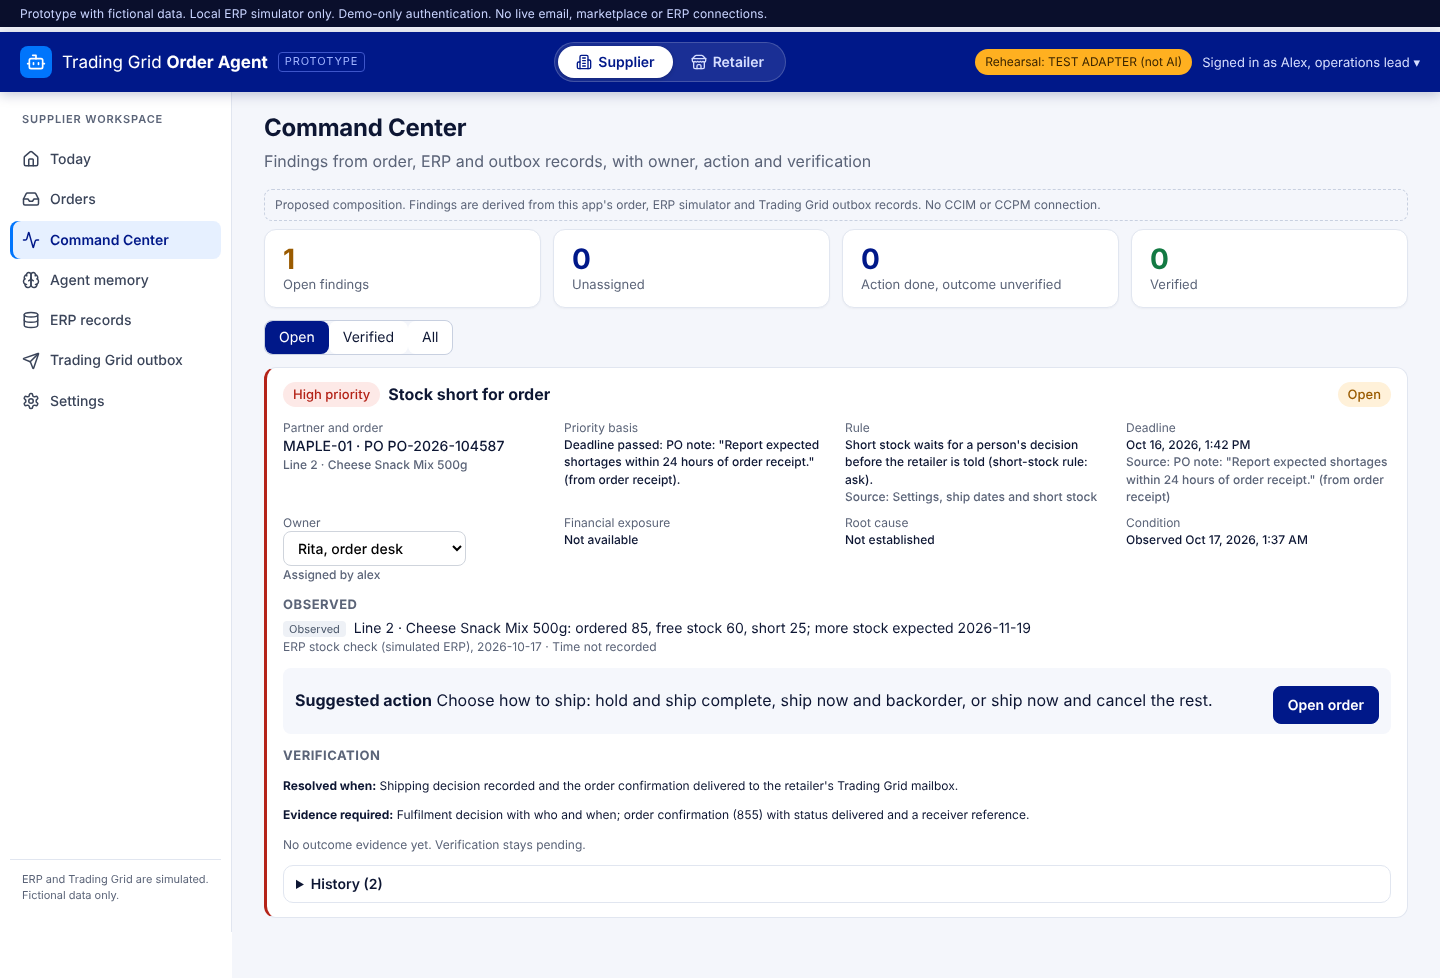
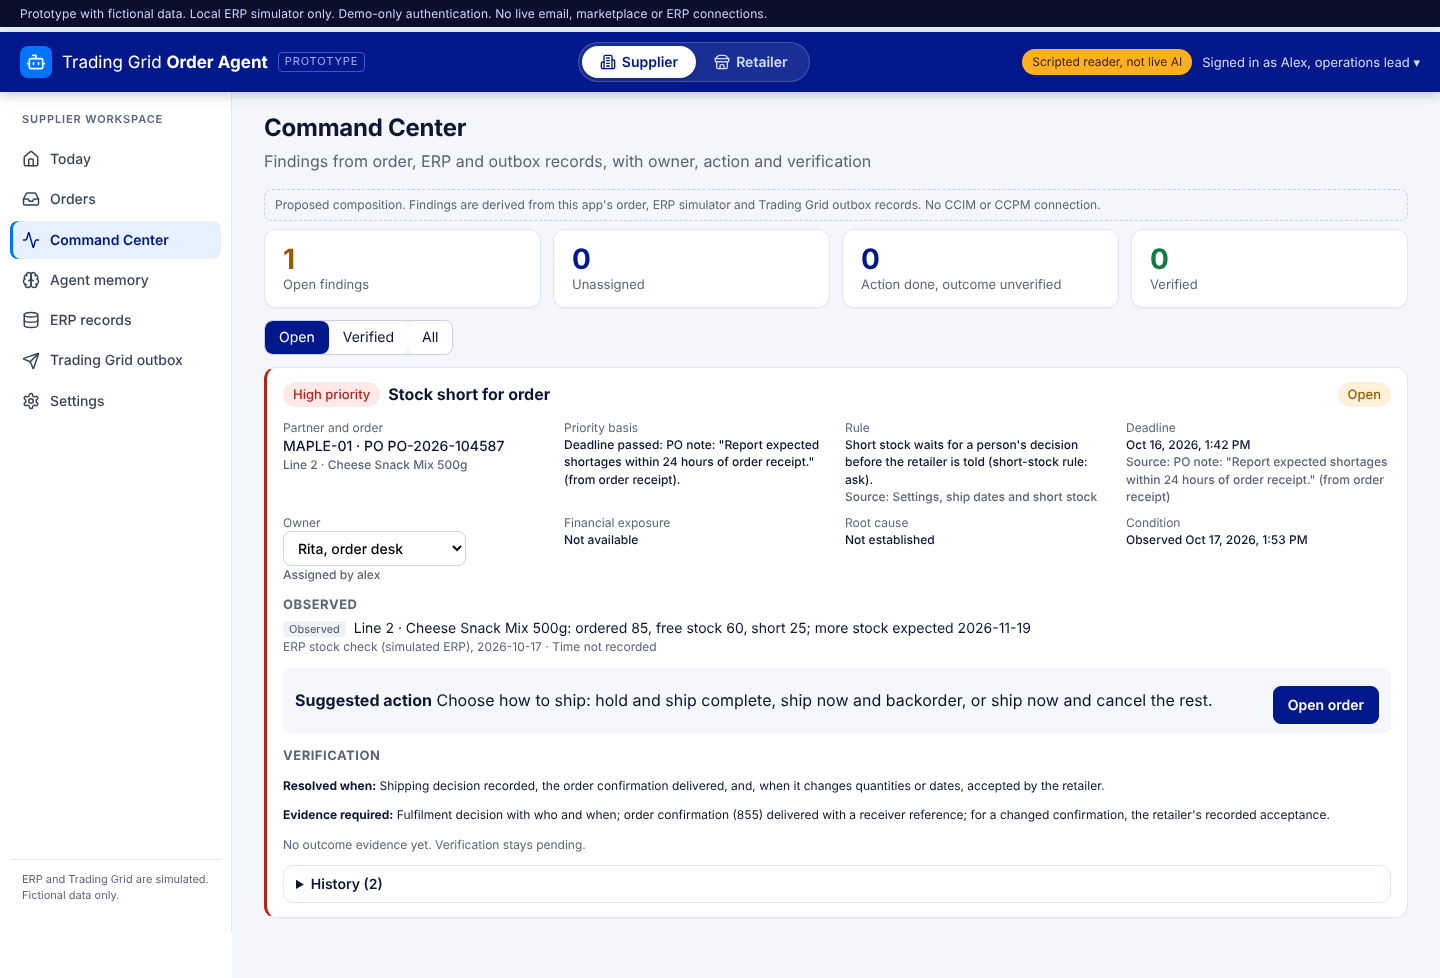
Demo-readiness pass: one finding per stock shortage verified by retailer acceptance, user switch and test chip wording, dead button, empty tiles, two demo cuts
Claude-Session: https://claude.ai/code/session_01PwiQm1ud8JEg3x2unACVCc

Changed region(s): [[0.375, 0.7975, 0.9062, 0.8589], [0.375, 0.0307, 0.5625, 0.092], [0.6562, 0.0307, 0.8125, 0.092]]

diff --git a/frontend/lib/domain/command-center.ts b/frontend/lib/domain/command-center.ts
@@ -72,6 +72,13 @@ function prioritise(now: string, deadline: Finding["deadline"], shipBy: string |
   return { level: "low", basis: "Waiting on a response; no deadline is established." };
 }
 
+/** The parts of a delivered confirmation that ship less or later than the PO asked: a change the buyer must accept. */
+function revisedParts(o: RunState["orders"][number] | undefined) {
+  const f = o?.fulfilment;
+  if (!f || f.status !== "confirmed") return [];
+  return f.parts.filter((p) => p.kind !== "now" || (f.shipBy !== null && p.shipOn !== null && p.shipOn > f.shipBy));
+}
+
 // ---------- Detect ----------
 
 export function detect(s: RunState, now: string): Condition[] {
@@ -94,8 +101,8 @@ export function detect(s: RunState, now: string): Condition[] {
         deadline,
         priority: prioritise(now, deadline, f.shipBy, "the order confirmation to the retailer waits for this decision"),
         nextAction: { text: "Choose how to ship: hold and ship complete, ship now and backorder, or ship now and cancel the rest.", target: "stock" },
-        resolution: { condition: "Shipping decision recorded and the order confirmation delivered to the retailer's Trading Grid mailbox.",
-          evidenceRequired: "Fulfilment decision with who and when; order confirmation (855) with status delivered and a receiver reference." } });
+        resolution: { condition: "Shipping decision recorded, the order confirmation delivered, and, when it changes quantities or dates, accepted by the retailer.",
+          evidenceRequired: "Fulfilment decision with who and when; order confirmation (855) delivered with a receiver reference; for a changed confirmation, the retailer's recorded acceptance." } });
     }
     // ERP delivery failed or its outcome is unknown. Transport is not creation: only an ERP record verifies it.
     if (o.deliveryState === "failed" || o.deliveryState === "unknown") {
@@ -133,8 +140,7 @@ export function detect(s: RunState, now: string): Condition[] {
     // Once the retailer accepts, the change is agreed and the condition no longer holds.
     const accepted = (s.portal?.retailerResponses ?? []).some((r) => r.messageId === m.id && r.decision === "accepted");
     if (m.kind === "ORDRSP" && m.status === "delivered" && o.fulfilment?.status === "confirmed" && m === firstOrdrsp(s, m.documentId) && !accepted) {
-      const changed = o.fulfilment.parts.filter((p) => p.kind !== "now"
-        || (o.fulfilment!.shipBy !== null && p.shipOn !== null && p.shipOn > o.fulfilment!.shipBy));
+      const changed = revisedParts(o);
       if (changed.length) {
         out.push({ ...base, type: "revised_delivery", key: `revised_delivery:${m.id}`, visibility: "shared",
           lines: [...new Set(changed.map((p) => p.lineIndex))].map((i) => ({ lineIndex: i, label: lineLabel(s, m.documentId, i) })),
@@ -164,7 +170,17 @@ function actionAndOutcome(s: RunState, f: Finding): { action: Evidence | null; o
     const msg = firstOrdrsp(s, f.documentId);
     const outcome: Evidence[] = msg ? [{ kind: "outcome", text: `Order confirmation ${msg.sourceId}: ${msg.status}${msg.receiverRef ? ` as ${msg.receiverRef}` : ""}`,
       source: "Trading Grid outbox (simulated)", at: msg.updatedAt }] : [];
-    return { action, outcome, verified: Boolean(action && msg?.status === "delivered" && msg.receiverRef) };
+    // One shortage, one lifecycle: the confirmation is the supplier's action. When it changes what or when the
+    // retailer receives, only the retailer's acceptance verifies it. Delivery alone does not.
+    const delivered = Boolean(msg?.status === "delivered" && msg.receiverRef);
+    const needsAcceptance = revisedParts(o).length > 0;
+    const resp = msg ? [...(s.portal?.retailerResponses ?? [])].reverse().find((r) => r.messageId === msg.id) : undefined;
+    if (resp) outcome.push({ kind: "outcome", text: `Retailer ${resp.decision} the revised quantities and dates (simulated retailer view)`,
+      source: "Retailer response record", at: resp.at });
+    const next = delivered && needsAcceptance
+      ? { text: resp?.decision === "declined" ? "Agree a new plan with the buyer, then send a changed confirmation from the order."
+        : "Wait for the retailer's response to the revised quantities and dates.", target: "stock" as const } : undefined;
+    return { action, outcome, verified: Boolean(action && delivered && (!needsAcceptance || resp?.decision === "accepted")), next };
   }
   if (f.type === "erp_outcome") {
     const retry = s.audit.find((a) => a.entityType === "document" && a.entityId === f.documentId && a.event === "delivery_retry_requested" && a.createdAt >= f.detectedAt);
@@ -314,7 +330,11 @@ export const issueOwner = (s: RunState): string | null => s.commandCenter?.owner
 export function retailerFindings(s: RunState, customerId: string): Finding[] {
   return (s.commandCenter?.findings ?? []).filter((f) => f.visibility === "shared" && f.customerId === customerId);
 }
-export const supplierFindings = (s: RunState): Finding[] => s.commandCenter?.findings ?? [];
+/** The supplier sees one finding per shortage: the retailer's copy of the same condition is evidence on it. */
+export const supplierFindings = (s: RunState): Finding[] => {
+  const all = s.commandCenter?.findings ?? [];
+  return all.filter((f) => f.type !== "revised_delivery" || !all.some((x) => x.type === "stock_short" && x.documentId === f.documentId));
+};
 
 /** Counts derived from the findings, for the Command Center header. */
 export function findingCounts(list: Finding[]) {

diff --git a/frontend/e2e/demo-cuts.spec.ts b/frontend/e2e/demo-cuts.spec.ts
@@ -1,0 +1,95 @@
+import { expect, test, type Page } from "@playwright/test";
+import { join } from "node:path";
+
+// Demo-readiness pass: the two cuts of the demo story, clicked through the real screens (TEST ADAPTER, simulated
+// ERP and Trading Grid, fictional data). Screenshots go to docs/screenshots/demo-*.
+const PACK = (f: string) => join(__dirname, "..", "..", "fixtures", "test-pack", f);
+const shot = (page: Page, name: string) => page.screenshot({ path: `../docs/screenshots/demo-${name}.png`, fullPage: true });
+
+async function toShortage(page: Page) {
+  await page.setViewportSize({ width: 1440, height: 900 });
+  await page.goto("/");
+  // Nothing seeded: the first screen shows no tiles and no orders.
+  await expect(page.getByLabel("Executive summary")).toHaveCount(0);
+  await expect(page.getByRole("region", { name: "Handled by the agent" })).toContainText("Processed orders appear here.");
+  await shot(page, "01-today-empty");
+  const forward = page.getByRole("region", { name: "Forward a purchase order" });
+  await forward.getByRole("button", { name: "Forward to agent" }).click();
+  const card = page.getByRole("article", { name: /Order PO-2026-104587/ });
+  await card.getByRole("button", { name: "Open order" }).click();
+  await expect(page.locator(".pdfpage img")).toBeVisible();
+  await shot(page, "02-order-pdf");
+  await page.getByRole("button", { name: "Approve order" }).click();
+  const stock = page.getByRole("region", { name: "Stock and ship date" });
+  await expect(stock).toContainText("Needs your choice");
+  await shot(page, "03-stock-short");
+  return { card, stock };
+}
+
+test("retailer CIO cut: steps 1, 2, 4, 6, 7", async ({ page }) => {
+  test.setTimeout(120_000);
+  const { stock } = await toShortage(page);
+
+  // One shortage, one finding, already detected before the supplier acts.
+  await page.getByRole("tab", { name: "Command Center" }).click();
+  await expect(page.getByRole("article")).toHaveCount(1);
+  const finding = page.getByRole("article", { name: /Stock short for order/ });
+  await expect(finding).toContainText("Unassigned");
+  await shot(page, "04-finding-detected");
+
+  // The supplier's confirmation is the action on that finding.
+  await finding.getByRole("button", { name: "Open order" }).click();
+  await stock.getByLabel("Ship now, backorder the rest").check();
+  await stock.getByRole("button", { name: "Confirm to the retailer" }).click();
+  await page.getByRole("button", { name: "Back to Command Center" }).click();
+  await expect(page.getByRole("article")).toHaveCount(1);
+  await expect(page.getByRole("article", { name: /Stock short for order/ })).toContainText("Wait for the retailer's response");
+  await shot(page, "05-action-done-unverified");
+
+  // The retailer receives standard messages, then answers.
+  await page.getByRole("button", { name: "Retailer", exact: true }).click();
+  await expect(page.locator(".rcard[data-kind=ORDRSP]")).toHaveCount(1);
+  await shot(page, "06-retailer-received");
+  await page.getByRole("tab", { name: "Command Center" }).click();
+  const rv = page.getByRole("article", { name: /Revised delivery awaiting retailer/ });
+  await expect(rv).toContainText("Simulated retailer response");
+  await shot(page, "07-retailer-command-center");
+  await rv.getByRole("button", { name: "Accept revision" }).click();
+
+  // Back as the supplier: verified by the retailer's response, not by delivery.
+  await page.getByRole("button", { name: "Supplier", exact: true }).click();
+  await page.getByRole("tab", { name: "Command Center" }).click();
+  await page.getByRole("button", { name: "Verified", exact: true }).click();
+  await expect(page.getByRole("article", { name: /Stock short for order/ })).toContainText("Retailer accepted the revised quantities and dates");
+  await shot(page, "08-verified");
+});
+
+test("supplier cut: steps 1 to 5, then 7, plus the email-text order", async ({ page }) => {
+  test.setTimeout(150_000);
+  const { card, stock } = await toShortage(page);
+  await stock.getByLabel("Ship now, backorder the rest").check();
+  await stock.getByRole("button", { name: "Confirm to the retailer" }).click();
+  await expect(stock).toContainText(/ship \w{3}, \w{3} \d+ · \d+ backordered to/);
+
+  // Ship and invoice in one step from the confirmed quantities.
+  await page.getByRole("tab", { name: "Today" }).click();
+  await card.getByRole("button", { name: "Open order" }).click();
+  await stock.getByLabel("Carrier SCAC").fill("UPSN");
+  await stock.getByLabel("Tracking number").fill("1ZTEST200001");
+  await stock.getByRole("button", { name: "Mark shipped in ERP" }).click();
+  await expect(stock).toContainText("Nothing to ship yet");
+  await page.getByRole("tab", { name: "Trading Grid outbox" }).click();
+  await expect(page.getByRole("region", { name: "Outbound messages" })).toBeVisible();
+  await shot(page, "09-outbox");
+
+  // Second beat: an order written in the email body.
+  await page.getByRole("tab", { name: "Orders" }).click();
+  await page.getByLabel("Upload a purchase order").setInputFiles(PACK("TP-02-email-body.eml"));
+  await expect(page.getByRole("complementary", { name: "Inbox" })).toContainText("PO TP-2026-0802");
+  await shot(page, "10-email-text-order");
+
+  // Trust controls stay reachable.
+  await page.getByRole("tab", { name: "Settings" }).click();
+  await expect(page.getByText("Default for routes without a setting")).toBeVisible();
+  await shot(page, "11-settings");
+});

diff --git a/frontend/app/page.tsx b/frontend/app/page.tsx
@@ -52,7 +52,7 @@ function App() {
   const summary = agent.ready ? summarise(agent.state) : null;
   const error = agent.serverError;
   const testMode = health?.rehearsal_mode || health?.extractor_mode === "test";
-  const extraction = !health ? "…" : testMode ? "Rehearsal: TEST ADAPTER (not AI)"
+  const extraction = !health ? "…" : testMode ? "Scripted reader, not live AI"
     : health.extraction === "available" ? `AI: ${health.model}` : "AI unavailable";
   const switchView = (v: View) => { setView(v); setTab(NAV[v][0][0]); setFromCc(false); };
   const goTab = (t: Tab) => { setTab(t); setFromCc(false); setSection(null); };
@@ -86,14 +86,16 @@ function App() {
         </div>
         <div className="mast-right">
           <span className={`chip ${testMode ? "warn" : health?.extraction === "available" ? "ok" : "bad"}`}>{extraction}</span>
-          <details className="role">
-            <summary>Signed in as {PEOPLE[role]}</summary>
-            <label>Switch user
-              <select value={role} onChange={(e) => setRole(e.target.value as Role)} aria-label="Signed-in user">
-                {(["administrator", "reviewer", "viewer"] as Role[]).map((r) => <option key={r} value={r}>{PEOPLE[r]}</option>)}
-              </select>
-            </label>
-          </details>
+          {testMode ? (
+            <details className="role">
+              <summary>Signed in as {PEOPLE[role]}</summary>
+              <label>Switch user
+                <select value={role} onChange={(e) => setRole(e.target.value as Role)} aria-label="Signed-in user">
+                  {(["administrator", "reviewer", "viewer"] as Role[]).map((r) => <option key={r} value={r}>{PEOPLE[r]}</option>)}
+                </select>
+              </label>
+            </details>
+          ) : <span className="muted small">Signed in as {PEOPLE[role]}</span>}
         </div>
       </header>
       <div className="shell">
@@ -121,7 +123,7 @@ function App() {
           </div>
           {error && <div className="alert bad" role="alert">{error}</div>}
           {agent.storageWarning && <div className="alert warn" role="status">{agent.storageWarning}</div>}
-          {tab === "today" && (
+          {tab === "today" && (summary?.orders_received ?? 0) > 0 && (
             <div className="kpis" aria-label="Executive summary">
               <Kpi n={summary?.orders_received} label="Orders received" />
               <Kpi n={summary?.delivered_to_erp} label="Delivered to ERP" tone="ok" />

diff --git a/frontend/e2e/command-center.spec.ts b/frontend/e2e/command-center.spec.ts
@@ -87,12 +87,11 @@ test("Command Center: stock shortage from finding to verified outcome", async ({
   await stock.getByRole("button", { name: "Confirm to the retailer" }).click();
   await page.getByRole("button", { name: "Back to Command Center" }).click();
 
-  // Verify: the confirmation reached the retailer's mailbox. The revision itself waits for the retailer.
-  await page.getByRole("button", { name: "Verified", exact: true }).click();
-  await expect(page.getByRole("article", { name: /Stock short for order/ })).toContainText("Resolution condition met");
-  await page.getByRole("button", { name: "Open", exact: true }).click();
-  const revised = page.getByRole("article", { name: /Revised delivery awaiting retailer/ });
-  await expect(revised).toContainText("Delivery of the confirmation alone does not resolve it");
+  // The confirmation is the action. Delivery is not acceptance, so the finding stays open and there is no second finding.
+  const open = page.getByRole("article", { name: /Stock short for order/ });
+  await expect(open).toContainText("Wait for the retailer's response");
+  await expect(page.getByRole("article", { name: /Revised delivery/ })).toHaveCount(0);
+  await expect(page.getByRole("article")).toHaveCount(1);
   await page.screenshot({ path: "../docs/screenshots/app-22-command-center-verified.png", fullPage: true });
 
   // The retailer sees only the shared finding on its own order, never the supplier's stock.
@@ -106,4 +105,11 @@ test("Command Center: stock shortage from finding to verified outcome", async ({
   await page.getByRole("button", { name: "Verified", exact: true }).click();
   await expect(page.getByRole("article", { name: /Revised delivery awaiting retailer/ })).toContainText("Retailer accepted the revised quantities and dates");
   await page.screenshot({ path: "../docs/screenshots/app-23-retailer-command-center.png", fullPage: true });
+
+  // Back as the supplier: the same shortage is now verified by the retailer's acceptance.
+  await page.getByRole("button", { name: "Supplier", exact: true }).click();
+  await page.getByRole("tab", { name: "Command Center" }).click();
+  await page.getByRole("button", { name: "Verified", exact: true }).click();
+  await expect(page.getByRole("article", { name: /Stock short for order/ })).toContainText("Resolution condition met");
+  await expect(page.getByRole("article", { name: /Stock short for order/ })).toContainText("Retailer accepted the revised quantities and dates");
 });

diff --git a/frontend/lib/test-pack.test.ts b/frontend/lib/test-pack.test.ts
@@ -5,7 +5,7 @@ import { readFileSync } from "node:fs";
 import { join } from "node:path";
 import * as pdfjsNode from "pdfjs-dist/legacy/build/pdf.mjs";
 import { describe, expect, it, vi } from "vitest";
-import { reconcileFindings, retailerFindings } from "./domain/command-center";
+import { reconcileFindings, retailerFindings, supplierFindings } from "./domain/command-center";
 import { normalise } from "./domain/normalise";
 import { type RunState, emptyRunState } from "./domain/run-state";
 import { type Intake, intakeEdi, intakeEml } from "./intake/intake";
@@ -152,6 +152,9 @@ describe("intake test pack (fixtures/test-pack, fictional)", () => {
             continue;
           }
           if (step.expect) check(s, step.expect, ids, created);
+          if (step.expect && "supplier_finding_types" in step.expect) {
+            expect(supplierFindings(s).map((f) => f.type).sort()).toStrictEqual([...(step.expect.supplier_finding_types as string[])].sort());
+          }
         }
       } finally {
         vi.useRealTimers();

diff --git a/frontend/app/LiveView.tsx b/frontend/app/LiveView.tsx
@@ -116,7 +116,7 @@ export function RetailerSuppliers({ customerId }: { customerId: string | null })
             <td><span className="pill info"><Mail size={14} aria-hidden /> Email, via Order Agent</span></td>
             <td>{orders.length}</td><td>{msgs.length}</td>
             <td>{orders.length ? `${untouched} of ${orders.length}` : "–"}</td>
-            <td><button className="ghost" disabled title="Prototype: shows the next step only">Invite to Trading Grid EDI</button></td>
+            <td className="muted small">Onboarding is outside this concept</td>
           </tr>
         </tbody>
       </table>

diff --git a/frontend/e2e/slice2-inbox.spec.ts b/frontend/e2e/slice2-inbox.spec.ts
@@ -4,7 +4,7 @@ test("forwarded email is processed automatically and shows evidence", async ({ p
   await request.post("/api/demo/reset", { headers: { "X-Demo-Role": "administrator", "X-Demo-User": "alex" } });
   await page.goto("/");
   await page.getByRole("tab", { name: "Orders" }).click();
-  await expect(page.getByText("Rehearsal: TEST ADAPTER (not AI)")).toBeVisible();
+  await expect(page.getByText("Scripted reader, not live AI")).toBeVisible();
   await page.getByRole("tab", { name: "Orders" }).click();
   await expect(page.getByText("No orders yet")).toBeVisible();
 

diff --git a/frontend/app/CommandCenter.tsx b/frontend/app/CommandCenter.tsx
@@ -111,6 +111,7 @@ function FindingCard({ f, audience, role, customerId, onOpen, onAssign, onRespon
           {canRespond && <>
             <button className="primary" onClick={() => onRespond("accepted")}>Accept revision</button>
             <button className="ghost danger" onClick={() => onRespond("declined")}>Decline revision</button>
+            <span className="muted small">Simulated retailer response. In a pilot, this evidence comes from the retailer&apos;s own system.</span>
           </>}
         </div>
       </div>

diff --git a/DECISIONS.md b/DECISIONS.md
@@ -229,3 +229,16 @@ case id or file name. The wrong-line case uses a hand-written stand-in for an AI
 deterministic reader cannot produce it. The invoice check formerly called a three-way match is renamed "Order, ASN
 and invoice check": it compares the supplier's PO line, ASN and invoice; there is no goods receipt
 (docs/11-system-of-record.md).
+
+## D69 One shortage, one finding; acceptance verifies (2026-10-17)
+The stock shortage used to produce two findings for one condition: the supplier's "Stock short" finding, verified when
+the confirmation was delivered, and a shared "Revised delivery" finding verified by the retailer's response. Delivery
+was being counted as verification. Now the supplier's confirmation is the action on the shortage finding, and when the
+confirmation ships less or later than the PO asked, only the retailer's recorded acceptance verifies it (delivery stays
+as outcome evidence). The shared finding still exists so the retailer can respond without seeing supplier stock; the
+supplier's list hides it while its shortage finding exists. A confirmation that changes nothing is still verified on
+delivery. The acceptance is a simulated retailer response and is labelled so beside the buttons.
+Demo-readiness changes in the same pass: the signed-in user switch shows only with the test adapter; the header chip for
+the test adapter reads "Scripted reader, not live AI" and stays until live AI reading is verified; the disabled
+"Invite to Trading Grid EDI" button is replaced by "Onboarding is outside this concept"; the Today tiles are hidden
+until an order exists. Currency, dates and retailer profile are unchanged (no decision yet).

diff --git a/docs/10-command-center.md b/docs/10-command-center.md
@@ -31,7 +31,7 @@ pending. Sending is never treated as acceptance.
 | Type | Detected when | Visibility | Resolution condition | Evidence that verifies it |
 |---|---|---|---|---|
 | Stock short for order (first scenario) | ERP stock check needs a person's decision | Supplier only (rests on ERP stock) | Shipping decision recorded and the order confirmation delivered to the retailer mailbox | Fulfilment decision with person and time; 855 status delivered with a receiver reference |
-| Revised delivery awaiting retailer | A delivered confirmation ships less, later or cancels part of the PO | Shared with that retailer | Retailer accepted the revised quantities and dates | Retailer response recorded as accepted. Delivery of the confirmation alone does not resolve it |
+| Revised delivery awaiting retailer | A delivered confirmation ships less, later or cancels part of the PO | Shared with that retailer | Retailer accepted the revised quantities and dates | Retailer response recorded as accepted. Delivery of the confirmation alone does not resolve it. The supplier sees this as evidence on its Stock short finding, not as a second finding (D69) |
 | ERP order not confirmed | ERP delivery failed or its outcome is unknown | Supplier only | The ERP holds an order record for the approved version | ERP order number found for the idempotency key |
 | Document not delivered to retailer | A retailer-bound document is held or refused by the outbox | Supplier only | The retailer's mailbox holds the document | Message status delivered with a receiver reference |
 

diff --git a/docs/09-spec-v1.2.md b/docs/09-spec-v1.2.md
@@ -81,7 +81,7 @@ limits).
 | UC-30 | Email and attachment conflict (new) | Subject or text naming another PO blocks the order until a person confirms. | Runtime-tested | TP-08 |
 | UC-31 | Command Center finding (new) | Findings derived from order, ERP and outbox records with owner, rule, deadline source, priority basis, action and verification. | Runtime-tested; proposed composition | TP-13..17, e2e command-center |
 | UC-32 | Act from a finding (new) | Open order goes to the exact section; the authorised action happens in the order workspace; Back to Command Center returns. | Runtime-tested | e2e command-center |
-| UC-33 | Verify an outcome (new) | Verified only when the resolution condition holds in source records. Sent is not accepted. | Runtime-tested; outcomes from simulators | TP-13..17 |
+| UC-33 | Verify an outcome (new) | Verified only when the resolution condition holds in source records. Sent is not accepted: a shortage confirmation that changes the PO is verified by the retailer's recorded (simulated) response, one finding per shortage (D69). | Runtime-tested; outcomes from simulators | TP-13..17 |
 | UC-34 | Scoped retailer view (new) | Viewing as one retailer: only its documents and shared findings; no supplier stock, cost or other-retailer data. | Runtime-tested | TP-17, e2e command-center |
 
 ## States (v1.1 section 7, as built)
